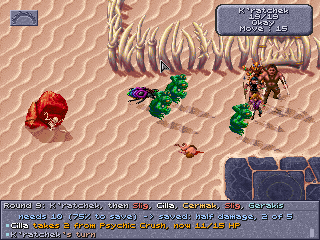
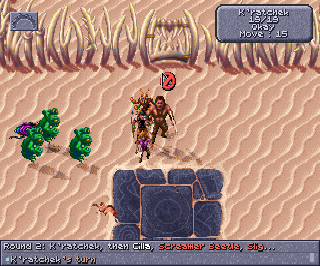
Combat log strip: 22 rows in the game's own timing
The strip is now 320 x 22 under the map (the round line and the newest
log line), set within the game's 70 Hz, 449-line timing, so the game runs
at its own speed and DOSBox keeps the map's usual shape. The screens move
to A070h and A460h; the video memory pool loses 1.5 KB instead of 4 KB.

Claude-Session: https://claude.ai/code/session_01BNiWkhyZSJPYsN3zRrweVp

diff --git a/obsidian-edition/dsloader/gamepatch.py b/obsidian-edition/dsloader/gamepatch.py
@@ -318,20 +318,20 @@ PATCHES = (
     # the combat log's panel under the pointer (DSCLOG's PROBE_POINTER): the stack check, "cmp
     # [9Ch],sp", of the routine that draws the game's pointer (28D1:093D)
     Patch("pointer", 0x2EA55, bytes.fromhex("39269c00"), _interrupt(VEC_POINTER, 4)),
-    # the combat log below the map (DSCLOG's STRIP; a switch, STRIP): the game's screen 320 x 240,
-    # 240 lines and the split below row 200 set at the end of its mode X set up ("mov al,2 / mov
-    # ah,1 / out dx,ax"); the strip shown there is video memory's first 3200 bytes, so the screens
+    # the combat log below the map (DSCLOG's STRIP; a switch, STRIP): the game's screen 320 x 222,
+    # its rows and the split below row 200 set at the end of its mode X set up ("mov al,2 / mov
+    # ah,1 / out dx,ax"); the strip shown there is video memory's first 1760 bytes, so the screens
     # move up, each to a multiple of 256 bytes (the page flip sets the high byte of where the
-    # screen starts only): A0D0h and A500h, the pages kept in video memory after them from A8E8h
+    # screen starts only): A070h and A460h, the pages kept in video memory after them from A848h
     # (to AFFBh as before). Where the screens are set up (0980:271Bh: "mov cx,0FFBh / mov
     # ax,0A000h", the second's "add ax,400h") and in the page flip ("mov ax,0A000h / mov
     # bx,0A400h"; "mov ax,0A000h"; "mov ax,0A400h")
     Patch("strip_lines", 0x11640, bytes.fromhex("b002b401ef"), _interrupt(VEC_STRIP, 5)),
-    Patch("strip_screens", 0x11323, bytes.fromhex("b9fb0fb800a0"), bytes.fromhex("b92b0fb8d0a0")),
-    Patch("strip_second", 0x11356, bytes.fromhex("050004"), bytes.fromhex("053004")),
-    Patch("strip_flip", 0x1442F, bytes.fromhex("b800a0bb00a4"), bytes.fromhex("b8d0a0bb00a5")),
-    Patch("strip_shown0", 0x14444, bytes.fromhex("b800a0"), bytes.fromhex("b8d0a0")),
-    Patch("strip_shown1", 0x1444E, bytes.fromhex("b800a4"), bytes.fromhex("b800a5")),
+    Patch("strip_screens", 0x11323, bytes.fromhex("b9fb0fb800a0"), bytes.fromhex("b98b0fb870a0")),
+    Patch("strip_second", 0x11356, bytes.fromhex("050004"), bytes.fromhex("05f003")),
+    Patch("strip_flip", 0x1442F, bytes.fromhex("b800a0bb00a4"), bytes.fromhex("b870a0bb60a4")),
+    Patch("strip_shown0", 0x14444, bytes.fromhex("b800a0"), bytes.fromhex("b870a0")),
+    Patch("strip_shown1", 0x1444E, bytes.fromhex("b800a4"), bytes.fromhex("b860a4")),
     # scrolling (DSCLOG's SCROLLING): the main loop asking where the pointer is, "call far
     # 3118:002E", its first 3 bytes (the segment after them is relocated as the game loads: A9h
     # makes the 5 a "test ax,<segment>", which DSCLOG returns past)

diff --git a/obsidian-edition/dsloader/viewer.py b/obsidian-edition/dsloader/viewer.py
@@ -329,10 +329,10 @@ class Viewer:
                             (combatlog.DETAIL, "... in detail, as in the log")):
             ttk.Radiobutton(in_game, text=text, value=value, variable=self.combat_log_level,
                             command=self._options_changed).pack(anchor="w", padx=(20, 0))
-        # ... or in a strip below the map, the game's screen 40 rows taller (gamepatch.STRIP)
+        # ... or in a strip below the map, the game's screen 22 rows taller (gamepatch.STRIP)
         self.combat_log_strip = tk.BooleanVar(value=settings.get("combat_log_strip", False) is True)
-        ttk.Checkbutton(in_game, text="... below the map instead of over it: the game's screen 40 rows taller "
-                        "(320 x 240), the map's pixels square (from the next start)",
+        ttk.Checkbutton(in_game, text="... below the map instead of over it: the round and the newest line, the game's "
+                        "screen 22 rows taller (from the next start)",
                         variable=self.combat_log_strip, command=self._options_changed).pack(anchor="w", padx=(20, 0))
         # the game's Look box, on a monster in a fight: what hurts it, then all of it in a window
         self.monster_info = tk.BooleanVar(value=bool(settings.get("monster_info", True)))

diff --git a/obsidian-edition/dsloader/combatlog.py b/obsidian-edition/dsloader/combatlog.py
@@ -315,15 +315,15 @@ class Geometry(NamedTuple):
 
 COLLAPSED, DOCKED, EXPANDED = "collapsed", "docked", "expanded"
 SIZES = {COLLAPSED: Geometry(15, 0), DOCKED: Geometry(PANEL_H, ROWS), EXPANDED: Geometry(130, 11, True)}
-STRIP_W, STRIP_H, STRIP_Y0 = 320, 40, 200  # the strip below the map (the 320 x 240 screen: DSCLOG's STRIP)
-STRIP = Geometry(STRIP_H, 3, False, STRIP_W, 0, STRIP_Y0 + STRIP_H, True)
+STRIP_W, STRIP_H, STRIP_Y0 = 320, 22, 200  # the strip below the map (the 320 x 222 screen: DSCLOG's STRIP)
+STRIP = Geometry(STRIP_H, 1, False, STRIP_W, 0, STRIP_Y0 + STRIP_H, True)
 DGROUP_SEG = 0x4356  # (the game's data segment, less its load segment: DSCLOG's DGROUP_SEG)
 STRIP_AT, STRIP_INT = 0x11640 - 0x5400, bytes((0xCD, 0xF7))  # the game's code there with the
 #   strip's patch (gamepatch's strip_lines: INT VEC_STRIP), from its load segment
 
 
 def strip_patched(gd) -> bool:
-    """The game was started with the combat log below the map (its screen 320 x 240)."""
+    """The game was started with the combat log below the map (its screen 320 x 222)."""
     ds = getattr(gd, "ds", None)
     return ds is not None and gd.guest.read((ds - DGROUP_SEG) * 16 + STRIP_AT, 2) == STRIP_INT
 SIZE_ORDER = (COLLAPSED, DOCKED, EXPANDED)

diff --git a/obsidian-edition/tests/test_combatlog.py b/obsidian-edition/tests/test_combatlog.py
@@ -357,7 +357,7 @@ class StatesTests(unittest.TestCase):
 
 
     def test_the_strip(self):
-        """With the strip's patch in the game's code: the strip, 320 x 40 at row 200, three rows."""
+        """With the strip's patch in the game's code: the strip, 320 x 22 at row 200, one row."""
         g = self.game.guest
         g.mem[HDR + c.TSR_PANEL_SEG:HDR + c.TSR_PANEL_SEG + 2] = c.struct.pack("<H", 0x800)
         g.mem[HDR + c.TSR_HDR_OFF:HDR + c.TSR_HDR_OFF + 2] = c.struct.pack("<H", 0)
@@ -369,9 +369,9 @@ class StatesTests(unittest.TestCase):
         self.panel.update(self.game, HDR, True, 1, "Round 1", NAMES)
         self.assertTrue(self.panel.strip)
         self.assertTrue(self.panel.over())  # (the wheel scrolls it wherever the pointer is)
-        self.assertEqual(c.struct.unpack_from("<HH", g.mem, HDR + c.TSR_PANEL_TOP), (200, 40))
+        self.assertEqual(c.struct.unpack_from("<HH", g.mem, HDR + c.TSR_PANEL_TOP), (200, 22))
         g0 = c.STRIP
-        self.assertEqual(len(c.render(bytes(768), None, g0)), 320 * 40)
+        self.assertEqual(len(c.render(bytes(768), None, g0)), 320 * 22)
         self.assertLessEqual(g0.text_y + g0.rows * c.LINE_H, g0.well[3] + 1)  # (the rows within the well)
 
 

diff --git a/obsidian-edition/DEVELOPMENT.md b/obsidian-edition/DEVELOPMENT.md
@@ -457,18 +457,20 @@ running:
 - **Below the map (the strip).** The switch `combat_log_strip` (off by
   default) adds gamepatch's `STRIP` patches when the game is started:
   `PROBE_STRIP` (INT F7h at 11640h, the end of the mode X set up, 0980:2A40h)
-  makes the screen 240 lines (Abrash's 320 × 240: the 25 MHz clock, 480 scan
-  lines, each row drawn twice) and sets the line compare to 18Fh, so below
-  scan line 399 (row 200) the VGA shows video memory from its start whichever
-  screen is up. Those 3200 bytes a plane are the strip; the game's two
-  screens move up past it, each to a multiple of 256 bytes as the page flip
-  (0980:5814h) writes only the start address's high byte: A0D0h and A500h
-  (in the screens' set up at 0980:271Bh, and the flip's three segment
-  constants). The pages the game keeps in video memory (a bump allocator,
-  `[0E4Eh]` up to `[0E4Ch]`, AFFBh) then start at A8E8h, not A7E8h: 4 KB
-  fewer of its 33 (the arena's fights used 26). `STRIP_DRAW` puts the
-  Loader's 320 × 40 picture there (`combatlog.STRIP`: the header and three
-  rows, no buttons); `PANEL_LIVE` is never set, so the clipping and the
+  makes the screen 222 rows within the game's own timing (the clock and the
+  totals untouched: 70 frames a second, 449 scan lines, each row drawn
+  twice): the picture to scan line 443, the blanking from 444 and the sync
+  at 445 to 447; and the line compare at 18Fh, so below scan line 399
+  (row 200) the VGA shows video memory from its start whichever screen is
+  up. Those 1760 bytes a plane are the strip; the game's two screens move up
+  past it, each to a multiple of 256 bytes as the page flip (0980:5814h)
+  writes only the start address's high byte: A070h and A460h (in the
+  screens' set up at 0980:271Bh, and the flip's three segment constants).
+  The pages the game keeps in video memory (a bump allocator, `[0E4Eh]` up
+  to `[0E4Ch]`, AFFBh) then start at A848h, not A7E8h: 1.5 KB fewer of its
+  33 (the arena's fights used 26). `STRIP_DRAW` puts the Loader's 320 × 22
+  picture there (`combatlog.STRIP`: the header and the newest row, no
+  buttons); `PANEL_LIVE` is never set, so the clipping and the
   pointer's handling are left out, and `STRIP_CLEAR` fills it with the
   palette's darkest colour (`STRIP_DARK`, read from the VGA) when the fight
   ends, and every 512 passes of the main loop out of a fight (the palette
@@ -476,7 +478,11 @@ running:
   it shows the palette's colour 0. The Loader knows the game was
   started so from the patch in its memory (`combatlog.strip_patched`), not the
   setting, which may have changed since. DOSBox's aspect correction works out
-  the shape from the frame's 525 lines, so the pixels come out square.
+  the shape from the timing, unchanged, so each row is stretched by 1.2 as
+  ever (the window 320 × 266). A 240-row screen was tried first: in a 480-line
+  timing DOSBox shows square pixels (the map a sixth flatter) and the frame
+  comes 60 times a second, not 70 (the game about 14% slower); a longer line
+  with the 28 MHz clock gave back the shape at 56 a second.
 
 ### THAC0, saves and thief skills
 

diff --git a/obsidian-edition/README.md b/obsidian-edition/README.md
@@ -340,16 +340,17 @@ and opens it again. Its size is remembered.
 ![The combat log expanded, with its filters](docs/combat-log-expanded.png)
 
 **Below the map instead.** With **... below the map instead of over it**
-ticked (off by default; from the next start), the game's screen is 40 rows
-taller, 320 × 240, and the combat log is a strip under the map, the full
-width, with its top line and three lines of the log; nothing of the map is
-covered. The pointer doesn't go there, so it has no buttons: the mouse wheel
-scrolls it wherever the pointer is (on Windows), and the level is set on the
-Options tab. Out of fights the strip is dark. The cost: DOSBox shows a
-320 × 240 screen with square pixels, so the map, drawn for a 320 × 200 screen
-stretched to 4:3, looks about a sixth flatter than usual.
+ticked (off by default; from the next start), the game's screen is 22 rows
+taller, 320 × 222, and the combat log is a strip under the map, the full
+width: its top line (the round, who acts and who is next) and the newest
+line of the log. Nothing of the map is covered, and the game runs at its own
+speed with the map its usual shape; DOSBox's window is a little taller than
+4:3. The pointer doesn't go there, so the strip has no buttons: the mouse
+wheel scrolls it wherever the pointer is (on Windows), and the level is set
+on the Options tab. Out of fights the strip is dark. For more lines, use the
+panel over the map.
 
-![The combat log in a strip below the map, the screen 320 x 240](docs/combat-log-strip.png)
+![The combat log in a strip below the map, the screen 320 x 222](docs/combat-log-strip.png)
 
 ### THAC0, saves and thief skills
 

diff --git a/CHANGELOG.md b/CHANGELOG.md
@@ -12,9 +12,9 @@ have the detail.
 
 **Added**
 - **The combat log below the map** (In the game, off by default): the
-  game's screen 320 × 240, the log a strip of three lines and its top line
-  under the map, covering none of it. The map's pixels come out square (it
-  looks a sixth flatter than usual).
+  game's screen 320 × 222, the log a strip under the map with its top line
+  and the newest line, covering none of it; the game's speed and the map's
+  shape as ever.
 
 **Changed**
 - **Fuller starting gear for the game's own party too:** Gerakis, K'ratchek,
